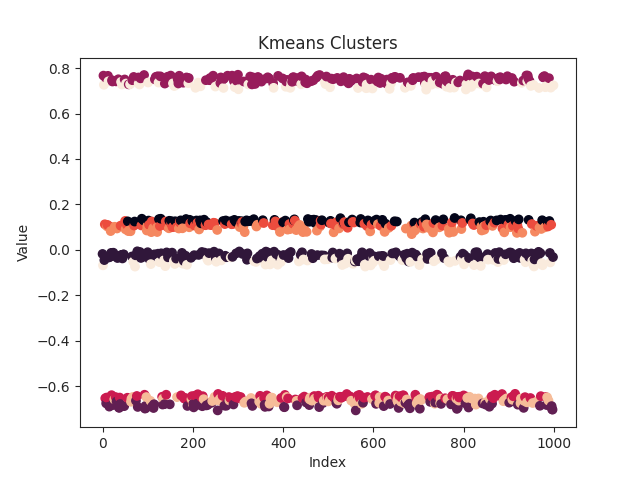
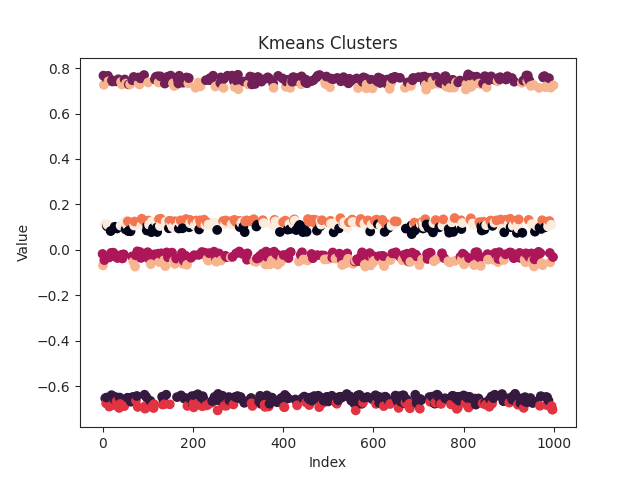
begin PCA writing

Changed region(s): [[0.1562, 0.4375, 0.875, 0.5625], [0.1562, 0.8125, 0.875, 0.875], [0.1562, 0.125, 0.875, 0.2188]]

diff --git a/unsupervised_learning_dim_reduction/NN.py b/unsupervised_learning_dim_reduction/NN.py
@@ -10,6 +10,7 @@ from sklearn.cluster import KMeans
 from sklearn.mixture import GaussianMixture
 from sklearn.metrics import accuracy_score,precision_score,recall_score
 from data_helpers import get_cs_go_data
+from sklearn.preprocessing import MinMaxScaler
 from sklearn.model_selection import train_test_split
 from plot_helpers import plot_neural_net_history_accuracy,plot_neural_net_history_loss
 import numpy as np
@@ -97,11 +98,15 @@ class NN:
         if clustering_algorithm == 'kmeans':
             kmeans = self.clustering_algorithms[clustering_algorithm].fit(self.data)
             labels = kmeans.labels_
-            clustered_labeled_data = np.concatenate((self.data,np.array(labels).reshape(-1,1)),axis=1)
+            labels = np.array(labels).reshape(-1,1)
+            labels = MinMaxScaler().fit_transform(labels)
+            clustered_labeled_data = np.concatenate((self.data,labels),axis=1)
         else:
             gmm = self.clustering_algorithms[clustering_algorithm].fit(self.data)
             labels = gmm.predict(self.data)
-            clustered_labeled_data = np.concatenate((self.data,np.array(labels).reshape(-1,1)),axis=1)
+            labels = np.array(labels).reshape(-1,1)
+            labels = MinMaxScaler().fit_transform(labels)
+            clustered_labeled_data = np.concatenate((self.data,labels),axis=1)
 
         Xtrain, Xtest, Ytrain, Ytest = train_test_split(clustered_labeled_data,self.labels, test_size=0.33, random_state=42, shuffle=True)
 

diff --git a/unsupervised_learning_dim_reduction/original_data_experiments.py b/unsupervised_learning_dim_reduction/original_data_experiments.py
@@ -1,10 +1,34 @@
 from data_helpers import get_cs_go_data, get_loan_defualt
 from clustering import kmeans_experiment, gmm_experiment, evaluate_kmeans, evaluate_gmm
+import matplotlib.pyplot as plt
+from mpl_toolkits.mplot3d import Axes3D
+import pandas as pd
+import numpy as np
+
+def plot_orig_data(df,fig_name,target_name,dir='pca_data'):
+    fig = plt.figure()
+    ax = Axes3D(fig)
+
+    sequence_containing_x_vals = df[0]
+    sequence_containing_y_vals = df[1]
+    sequence_containing_z_vals = df[2]
+
+    ax.scatter(sequence_containing_x_vals, sequence_containing_y_vals, sequence_containing_z_vals,c=df[target_name])
+    ax.set_title("Data Reduction")
+    ax.set_xlabel('Reduction Feature 1')
+    ax.set_ylabel('Reduction Feature 2')
+    ax.set_zlabel('Reduction Feature 3')
+    plt.savefig(f'unsupervised_learning_dim_reduction/charts/{dir}/{fig_name}')
+    plt.clf()
 
 if __name__ == '__main__':
     cs_go_data, cs_go_labels = get_cs_go_data()
 
     loan_data, loan_labels  = get_loan_defualt()
+
+    # plot_orig_data(pd.DataFrame(np.concatenate((cs_go_data,cs_go_labels.reshape(-1,1)),axis=1)),'csgo_orginal_3d',96,dir='original_data')
+
+    # plot_orig_data(pd.DataFrame(np.concatenate((loan_data,loan_labels.reshape(-1,1)),axis=1)),'loan_orginal_3d',10,dir='original_data')
 
     kmeans_experiment(cs_go_data,cs_go_labels,'csgo',dir='original_data')
 

diff --git a/unsupervised_learning_dim_reduction/PCA.py b/unsupervised_learning_dim_reduction/PCA.py
@@ -1,7 +1,7 @@
 from sklearn.decomposition import PCA
 from sklearn.metrics import mean_squared_error
 from data_helpers import get_cs_go_data, get_loan_defualt
-from plot_helpers import plot_2d, plot_3d, plot_reconstruction_error,plot_explained_variance
+from plot_helpers import plot_2d, plot_3d, plot_reconstruction_error,plot_explained_variance,plot_eigenvectors
 from clustering import kmeans_experiment,gmm_experiment,evaluate_gmm,evaluate_kmeans
 import numpy as np
 import pandas as pd
@@ -56,6 +56,8 @@ def pca_experiment(data,labels,num_dim,dataset_name):
 def pca_evaluate(data,labels,dataset,dr_components,kmeans_clusters,gmm_components,dir='pca_data'):
     pca = PCA(dr_components)
     reduced_data = pca.fit_transform(data)
+    arr = pca.components_[:,0].flatten()
+    plot_eigenvectors(arr,f'{dataset}_eigen')
 
     # evaluate the kmeans and gmm
     print('KMEANS')
@@ -80,4 +82,4 @@ if __name__ == '__main__':
 
     pca_evaluate(cs_go_data,cs_go_labels,'csgo',dr_components=50,kmeans_clusters=15,gmm_components=14)
 
-    pca_evaluate(loan_data,loan_labels,'loan',dr_components=6,kmeans_clusters=8,gmm_components=11)
+    pca_evaluate(loan_data,loan_labels,'loan',dr_components=7,kmeans_clusters=8,gmm_components=11)

diff --git a/unsupervised_learning_dim_reduction/plot_helpers.py b/unsupervised_learning_dim_reduction/plot_helpers.py
@@ -40,6 +40,15 @@ def plot_homo_and_complete(homo_scores:dict,completeness_scores:dict,fig_name:st
     plt.savefig(f'unsupervised_learning_dim_reduction/charts/{dir}/{fig_name}')
     plt.clf()
 
+def plot_eigenvectors(arr,fig_name:str,dir='pca_data'):
+    _, axes = plt.subplots(1)
+    axes.plot(arr)
+    axes.set_title("Eigen Vectors")
+    axes.set_xlabel('Index')
+    axes.set_ylabel('Value')
+    plt.savefig(f'unsupervised_learning_dim_reduction/charts/{dir}/{fig_name}')
+    plt.clf()
+
 def pair_wise_plot(dataframe,label_name,fig_name,dir='original_data'):
     sb.set_style("ticks")
     sb.pairplot(dataframe,hue = label_name,diag_kind = "kde",kind = "scatter",palette = "husl")
